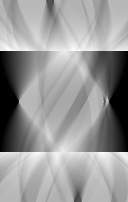
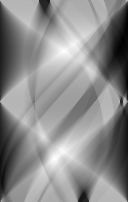
Finally fixed the bug. Forward projection seems to work now

diff --git a/tomo_lib.py b/tomo_lib.py
@@ -20,8 +20,8 @@ def sinogram(image, theta):
     return sinogram
 
 def get_rays(size):
-    numrays = np.sqrt(2*(size**2))
-    startvalue = (numrays-1)/2.0
+    #numrays = np.sqrt(2*(size**2))
+    startvalue = (size-1)/2.0
     return np.linspace((-(1.0)*startvalue), startvalue, size).astype(np.float32)
 
 def savesinogram(filename, data, numrays, numangles):
